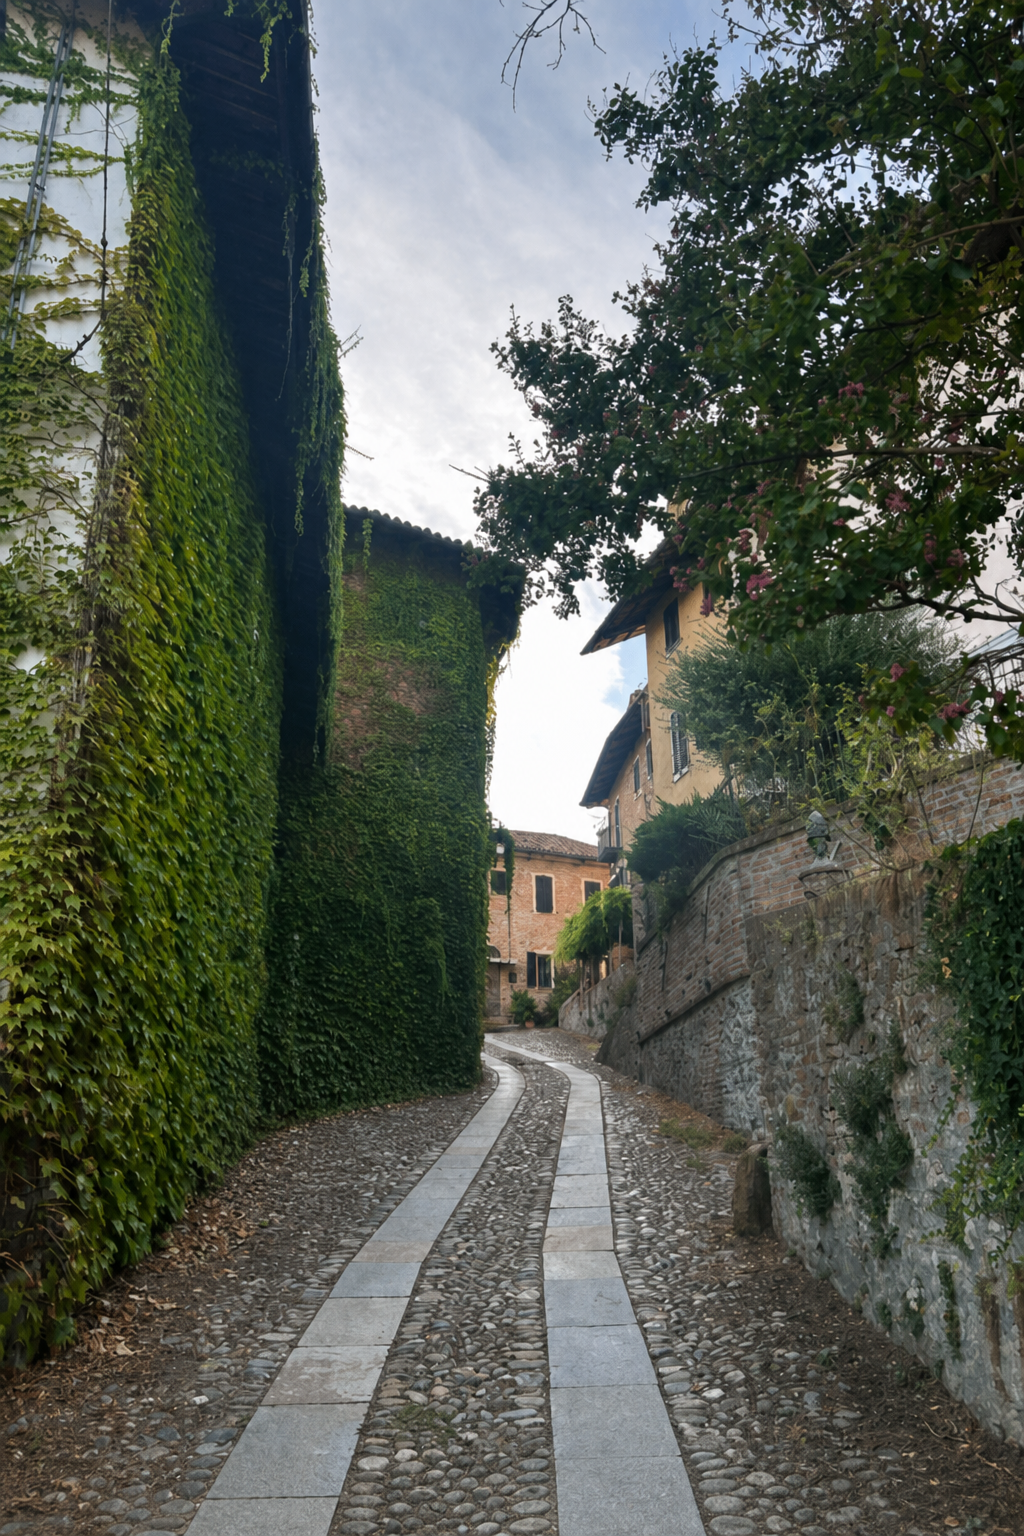
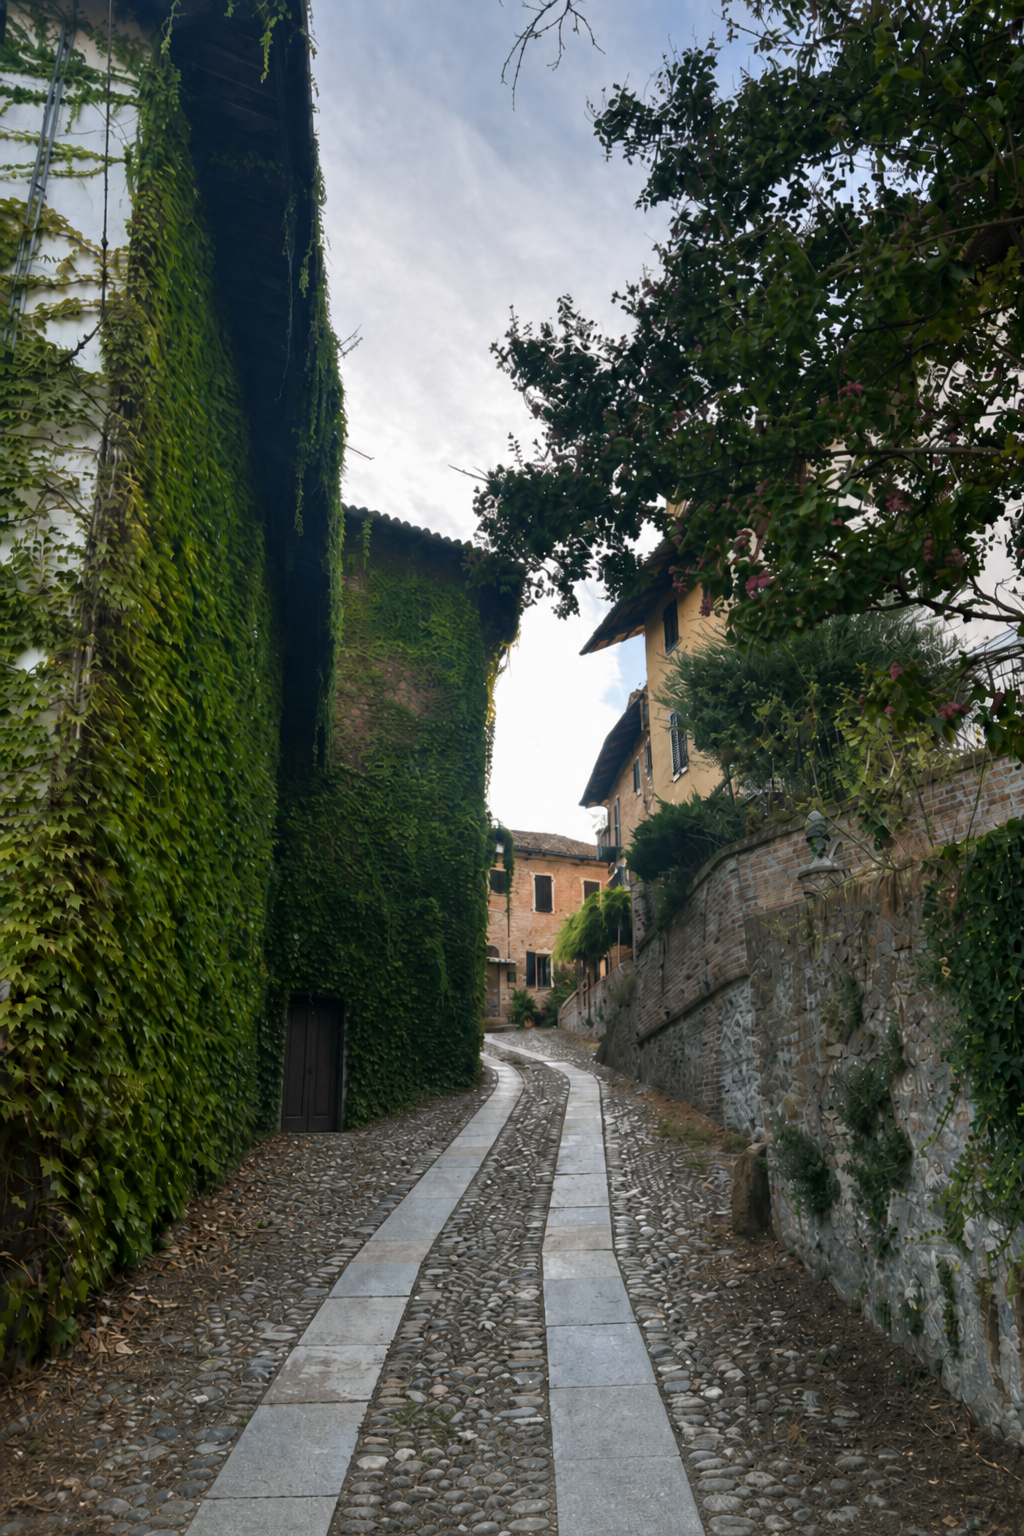
Keep the Japanese home title on one line and restore the alley door.

Changed region(s): [[0.0, 0.0, 1.0, 1.0], [0.3125, 0.1875, 0.3438, 0.3125], [0.5, 0.0, 0.5625, 0.0312]]

diff --git a/css/style.css b/css/style.css
@@ -238,6 +238,7 @@ h1, h2, h3 { font-family: var(--display); font-weight: 400; line-height: 1.05; }
     padding-bottom: max(4.5rem, calc(env(safe-area-inset-bottom) + 3rem));
   }
   .hero h1 { font-size: clamp(2.6rem, 13vw, 4.4rem); margin-bottom: 1rem; }
+  html[lang="ja"] .home-hero h1 { font-size: clamp(2.05rem, 10.4vw, 3.6rem); }
   .hero p { font-size: 1.02rem; }
   .page-hero { min-height: 78svh; }
   .page-hero h1 { max-width: none; }
@@ -286,8 +287,15 @@ h1, h2, h3 { font-family: var(--display); font-weight: 400; line-height: 1.05; }
 }
 
 html[lang="ja"] h1, html[lang="ja"] h2, html[lang="ja"] h3 { letter-spacing: .03em; line-height: 1.28; }
-html[lang="ja"] .hero h1, html[lang="ja"] .page-hero h1 { letter-spacing: .06em; }
-html[lang="ja"] .page-hero h1 { max-width: 8em; }
+html[lang="ja"] .page-hero h1 { letter-spacing: .06em; max-width: 8em; }
+html[lang="ja"] .home-hero h1 {
+  font-family: "Fraunces", Georgia, serif;
+  letter-spacing: -.045em;
+  line-height: 1.05;
+  white-space: nowrap;
+  overflow-wrap: normal;
+  word-break: keep-all;
+}
 html[lang="ja"] .site-nav a { letter-spacing: .08em; }
 
 @media (prefers-reduced-motion: reduce) {
